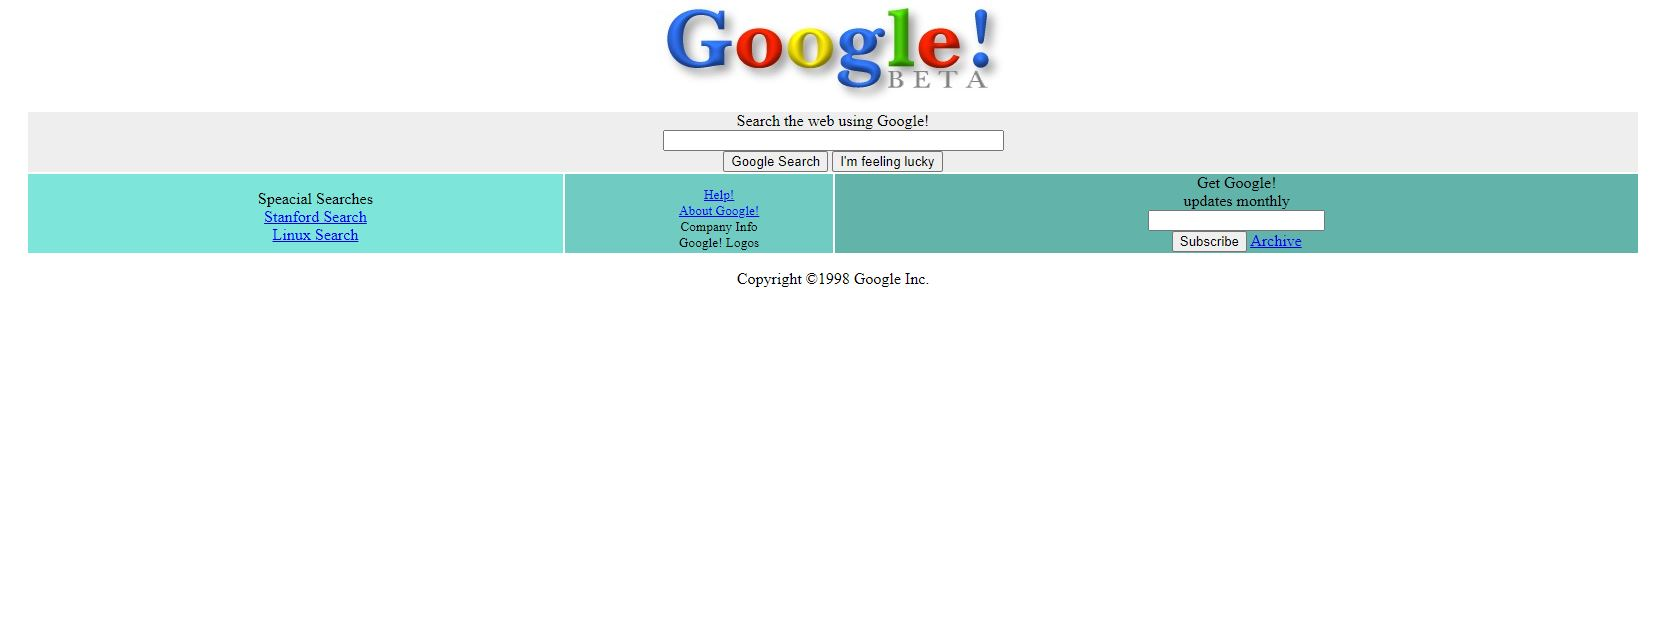
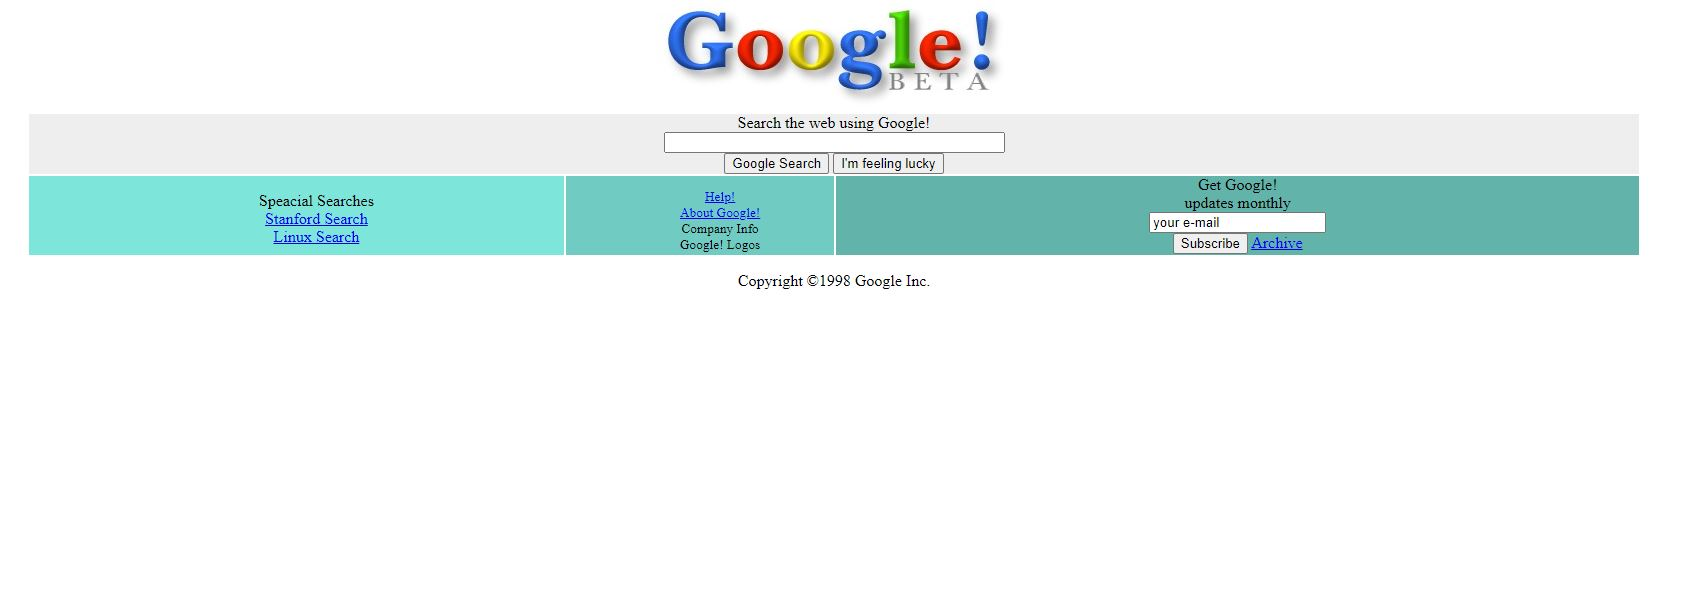
bugs fixed

Changed region(s): [[0.0, 0.1854, 0.9958, 0.4634], [0.3734, 0.0, 0.6224, 0.1545]]

diff --git a/index.html b/index.html
@@ -42,7 +42,7 @@
           <div class="google-update">
             <p>Get Google!</p>
             <p>updates monthly</p>
-            <input type="text" /> <br />
+            <input type="email" placeholder="your e-mail" /> <br />
             <button>Subscribe</button> <a href="#">Archive</a>
           </div>
         </article>

diff --git a/style.css b/style.css
@@ -62,6 +62,9 @@ main {
 .google-update p {
   margin: 0;
 }
+::placeholder {
+  color: black;
+}
 
 footer {
   text-align: center;
